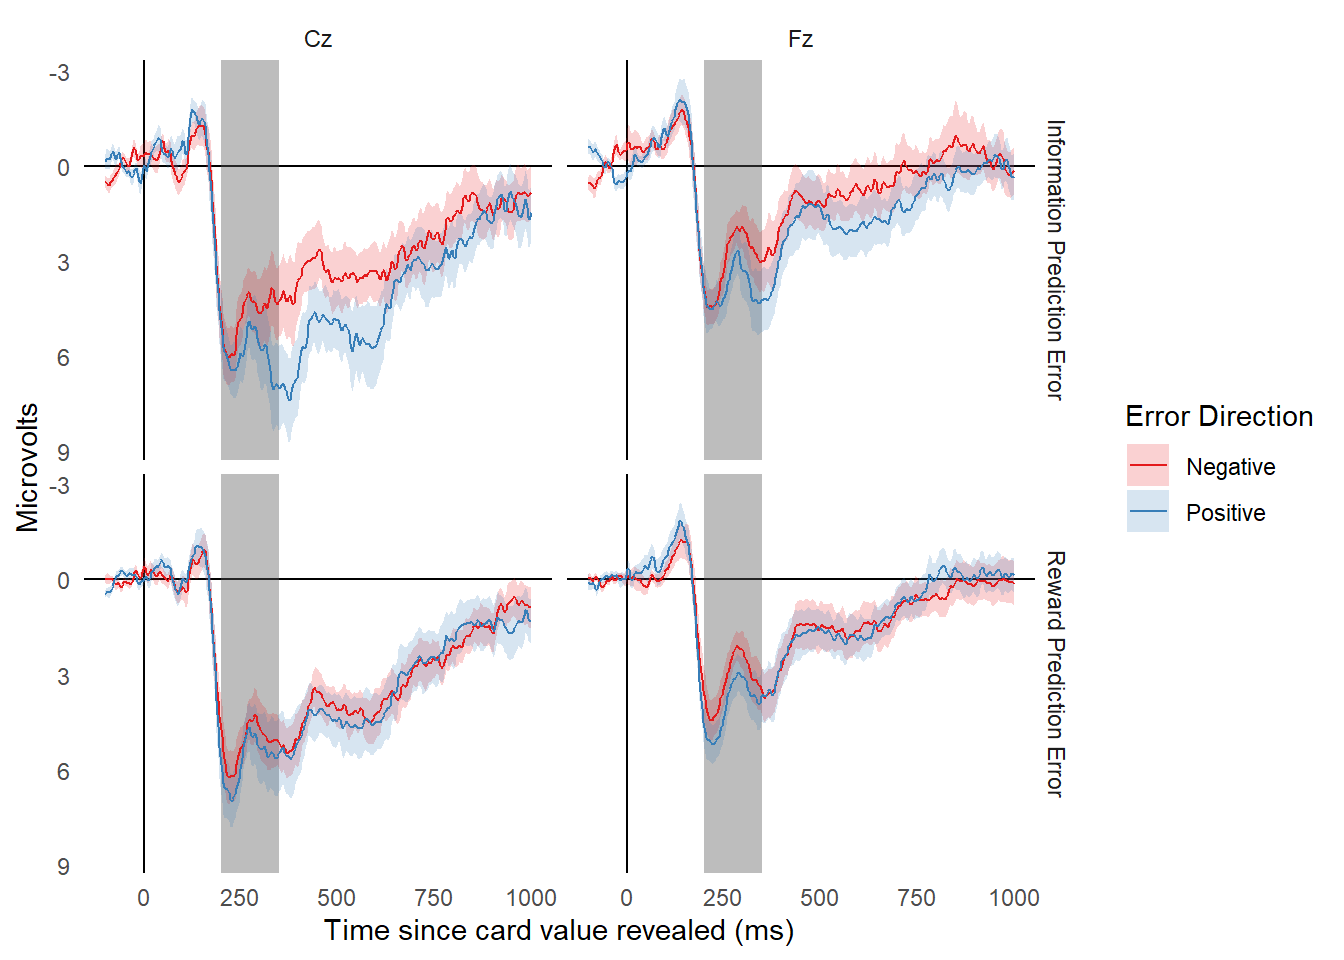
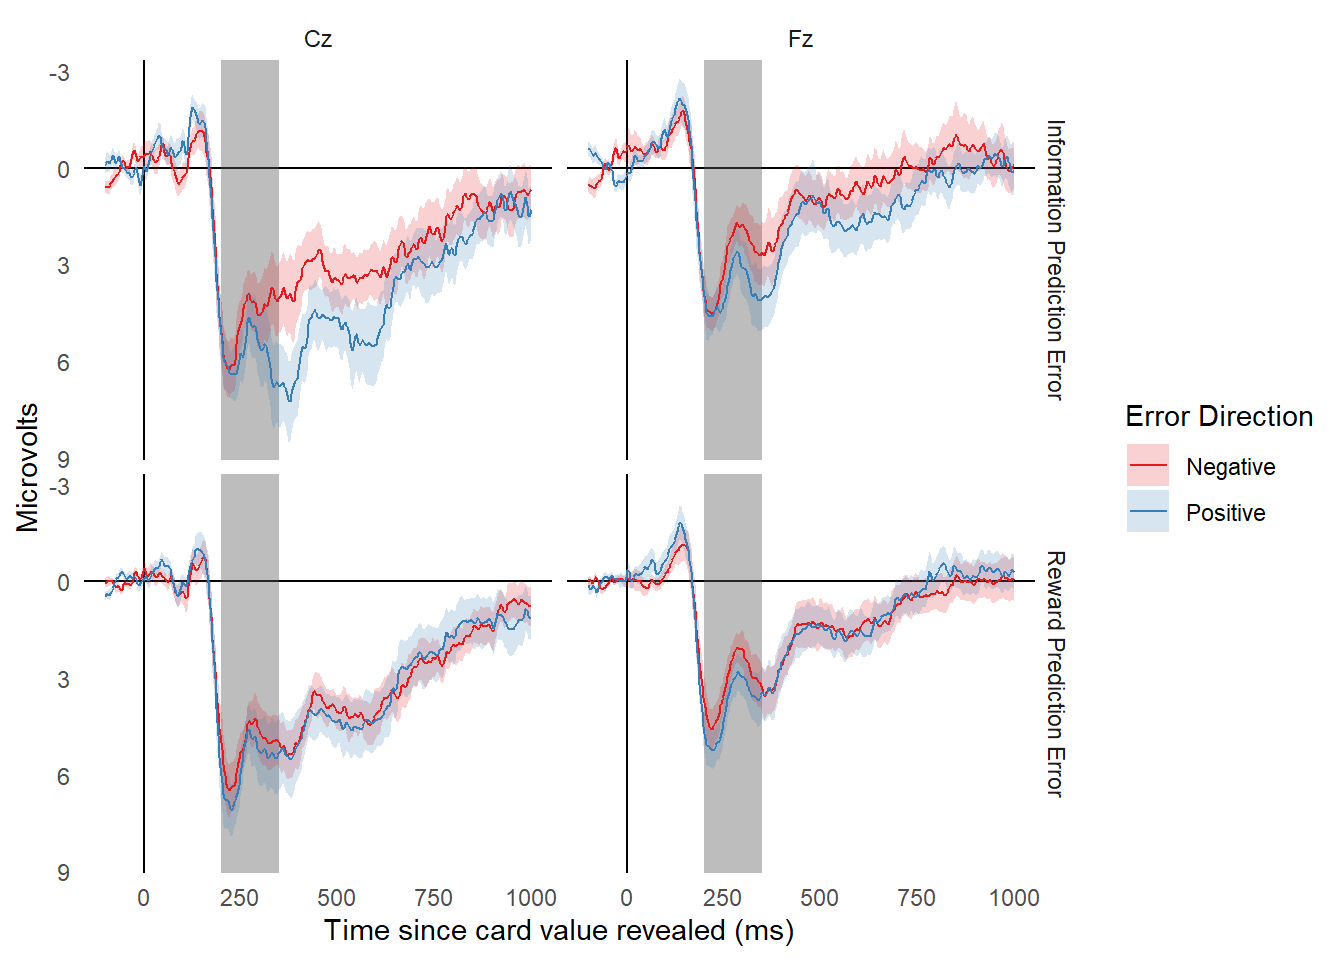
use osf to get data

diff --git a/219-2023-analysis/manuscript.html b/219-2023-analysis/manuscript.html
@@ -70,6 +70,19 @@ ul.task-list li input[type="checkbox"] {
 <div class="cell">
 
 </div>
+<section id="methods" class="level2">
+<h2 class="anchored" data-anchor-id="methods">Methods</h2>
+<div class="cell">
+
+</div>
+<section id="participants" class="level3">
+<h3 class="anchored" data-anchor-id="participants">Participants</h3>
+<div class="cell">
+
+</div>
+<p>21 Vassar College students participated in this study. All participants were right-handed.</p>
+</section>
+</section>
 <section id="results" class="level2">
 <h2 class="anchored" data-anchor-id="results">Results</h2>
 <section id="behavioral" class="level3">
@@ -77,10 +90,7 @@ ul.task-list li input[type="checkbox"] {
 <div class="cell">
 
 </div>
-<div class="cell">
-
-</div>
-<p>There were five attention check trials, one during each block, throughout the experiment. The mean number of correct responses was 5 (<em>SD</em> = 0) and the average response time was 610ms (<em>SD</em> = 81). As per our pre-registered criteria, we excluded 0 participants for failing more than 2 attention checks (defined as a response time greater than 1,500ms).</p>
+<p>There were five attention check trials, one during each block, throughout the experiment. The mean number of correct responses was 5 (<em>SD</em> = 0) and the average response time was 613ms (<em>SD</em> = 78). As per our pre-registered criteria, we excluded 0 participants for failing more than 2 attention checks (defined as a response time greater than 1,500ms).</p>
 </section>
 <section id="eeg" class="level3">
 <h3 class="anchored" data-anchor-id="eeg">EEG</h3>
@@ -102,7 +112,10 @@ ul.task-list li input[type="checkbox"] {
 <div class="cell">
 
 </div>
-<p>We pre-registered an inclusion criteria that a participant must have at least 20 usable epochs of data of a particular event type in order to be included in the corresponding analyses. The minimum number of usable epochs for the RPE analysis in an individual subject was 70, <em>M</em>=136, <em>SD</em>=29. The minimum number of usable epochs for the IPE analysis in an individual subject was 29, <em>M</em>=74, <em>SD</em>=16. Therefore, no participants needed to be excluded from the following analyses.</p>
+<div class="cell">
+
+</div>
+<p>We pre-registered an inclusion criteria that a participant must have at least 20 usable epochs of data of a particular event type in order to be included in the corresponding analyses. The minimum number of usable epochs for the RPE analysis in an individual subject was 9, <em>M</em>=131, <em>SD</em>=39. The minimum number of usable epochs for the IPE analysis in an individual subject was 6, <em>M</em>=71, <em>SD</em>=21. 1 subject was excluded for poor EEG data quality.</p>
 <div class="cell">
 
 </div>
@@ -150,31 +163,31 @@ ul.task-list li input[type="checkbox"] {
 <td style="text-align: left;">2</td>
 <td style="text-align: left;">electrode</td>
 <td style="text-align: right;">1</td>
-<td style="text-align: right;">16</td>
-<td style="text-align: right;">18.3276389</td>
-<td style="text-align: right;">0.0005728</td>
+<td style="text-align: right;">17</td>
+<td style="text-align: right;">21.4518948</td>
+<td style="text-align: right;">0.0002385</td>
 <td style="text-align: left;">*</td>
-<td style="text-align: right;">0.1129124</td>
+<td style="text-align: right;">0.1241972</td>
 </tr>
 <tr class="even">
 <td style="text-align: left;">3</td>
 <td style="text-align: left;">rpe_type</td>
 <td style="text-align: right;">1</td>
-<td style="text-align: right;">16</td>
-<td style="text-align: right;">2.7472870</td>
-<td style="text-align: right;">0.1168938</td>
+<td style="text-align: right;">17</td>
+<td style="text-align: right;">2.6617749</td>
+<td style="text-align: right;">0.1211710</td>
 <td style="text-align: left;"></td>
-<td style="text-align: right;">0.0155203</td>
+<td style="text-align: right;">0.0142832</td>
 </tr>
 <tr class="odd">
 <td style="text-align: left;">4</td>
 <td style="text-align: left;">electrode:rpe_type</td>
 <td style="text-align: right;">1</td>
-<td style="text-align: right;">16</td>
-<td style="text-align: right;">0.2920358</td>
-<td style="text-align: right;">0.5963619</td>
+<td style="text-align: right;">17</td>
+<td style="text-align: right;">0.2558387</td>
+<td style="text-align: right;">0.6194891</td>
 <td style="text-align: left;"></td>
-<td style="text-align: right;">0.0004800</td>
+<td style="text-align: right;">0.0003954</td>
 </tr>
 </tbody>
 </table>
@@ -212,31 +225,31 @@ ul.task-list li input[type="checkbox"] {
 <td style="text-align: left;">2</td>
 <td style="text-align: left;">electrode</td>
 <td style="text-align: right;">1</td>
-<td style="text-align: right;">16</td>
-<td style="text-align: right;">14.3515399</td>
-<td style="text-align: right;">0.0016119</td>
+<td style="text-align: right;">17</td>
+<td style="text-align: right;">16.5510123</td>
+<td style="text-align: right;">0.0007997</td>
 <td style="text-align: left;">*</td>
-<td style="text-align: right;">0.0945242</td>
+<td style="text-align: right;">0.1003878</td>
 </tr>
 <tr class="even">
 <td style="text-align: left;">3</td>
 <td style="text-align: left;">ipe_type</td>
 <td style="text-align: right;">1</td>
-<td style="text-align: right;">16</td>
-<td style="text-align: right;">5.7676250</td>
-<td style="text-align: right;">0.0288280</td>
+<td style="text-align: right;">17</td>
+<td style="text-align: right;">6.0062934</td>
+<td style="text-align: right;">0.0253732</td>
 <td style="text-align: left;">*</td>
-<td style="text-align: right;">0.0294906</td>
+<td style="text-align: right;">0.0286163</td>
 </tr>
 <tr class="odd">
 <td style="text-align: left;">4</td>
 <td style="text-align: left;">electrode:ipe_type</td>
 <td style="text-align: right;">1</td>
-<td style="text-align: right;">16</td>
-<td style="text-align: right;">0.6293542</td>
-<td style="text-align: right;">0.4391992</td>
+<td style="text-align: right;">17</td>
+<td style="text-align: right;">0.2473501</td>
+<td style="text-align: right;">0.6253183</td>
 <td style="text-align: left;"></td>
-<td style="text-align: right;">0.0008373</td>
+<td style="text-align: right;">0.0003352</td>
 </tr>
 </tbody>
 </table>
